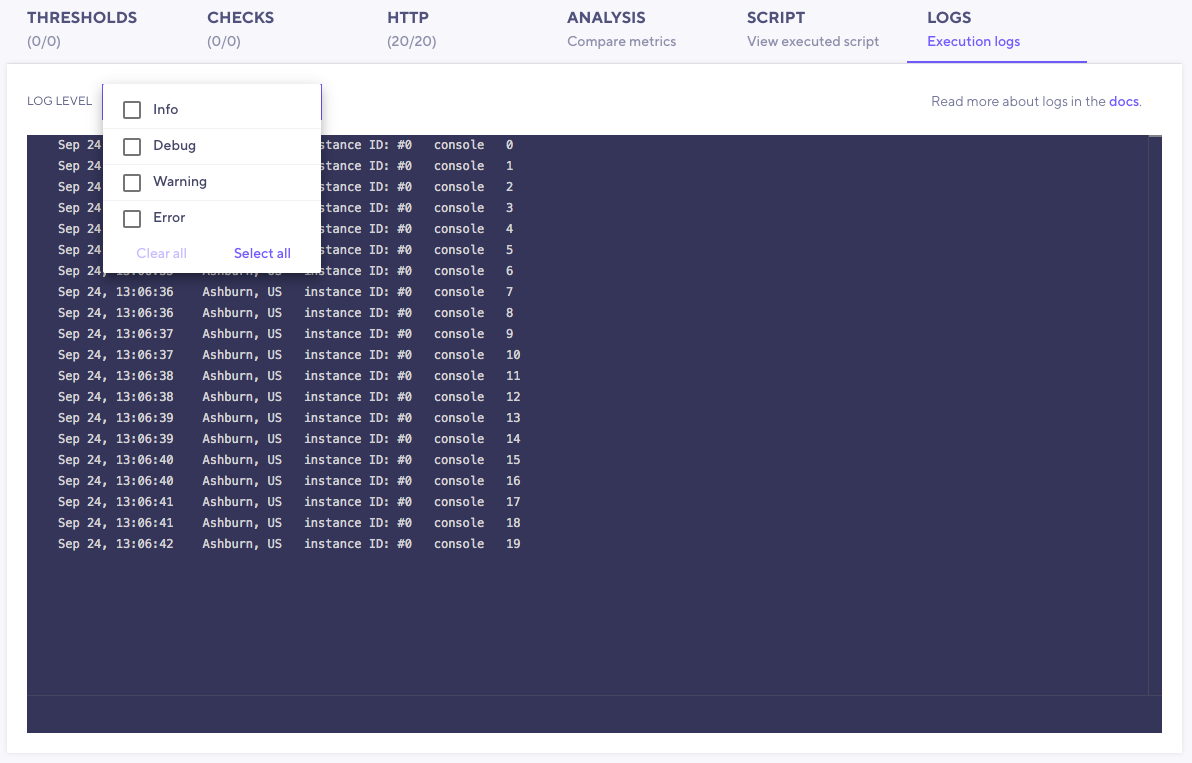
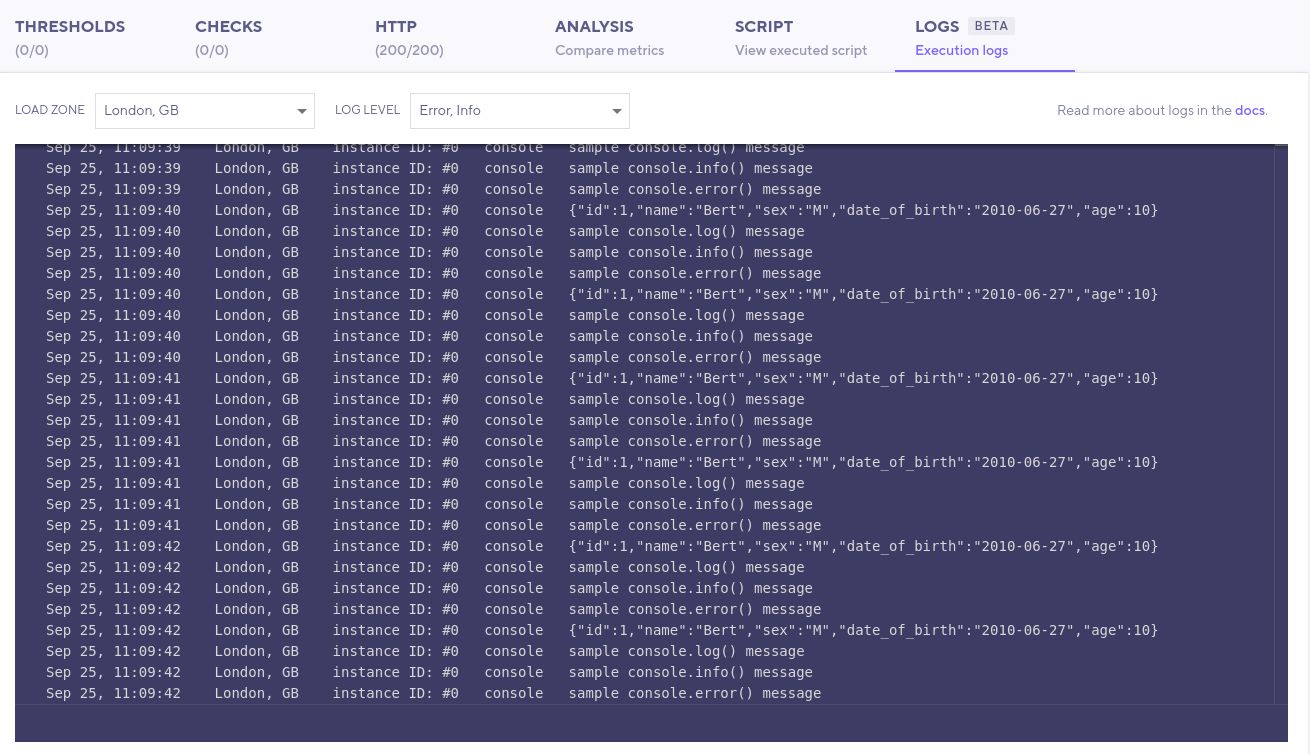
Changes to the cloud logs article

diff --git a/src/data/markdown/docs/03 cloud/02 Analyzing Results/07 Logs Tab.md b/src/data/markdown/docs/03 cloud/02 Analyzing Results/07 Logs Tab.md
@@ -9,7 +9,7 @@ excerpt: 'The Logs tab allows you to view console logs'
 >
 > This feature is new as of version `0.28.0` and is currently in Beta.
 
-Developers often log messages when debugging their load tests to ensure the test works correctly or view variable values.
+When developing a load test, it's often useful to print messages for debugging purposes. 
 
 The k6 API supports the following console logging methods:
 
@@ -22,7 +22,7 @@ The k6 API supports the following console logging methods:
 
 Logs can aid you in troubleshooting your test execution. But they should NOT replace the functionality of other k6 APIs.
 
-For example, it is often an **antipattern** to use `logs` to:
+For example, it is often an **anti-pattern** to use `logs` to:
 -  Track the status of a condition. Instead, use [Checks](/javascript-api/k6/check-val-sets-tags) to assert these conditions.
 -  Track a variable value during the test execution. Instead, use the [Trend](/javascript-api/k6-metrics/trend) metric.
 
@@ -38,54 +38,45 @@ The Logs Tab allows you to view and filter log messages in the Cloud Results pag
 
 ![Cloud Logs Tab](/images/11-Cloud-Logs/cloud-logs-output-messages.png)
 
-The Logs panel shows the log message at the right side, and additionaly,  some extra debug information. This information refers to the machine executing the script:
-
-- Log date
-- Load zone: the geographic zone where the load generator server is running
-- Instance ID: ID of the load generator server taking part in the test
+In addition to the log messages, the log panel shows context information such as:
+- Log date in the local time zone
+- Load zone: the geographic zone where the load generator server is located
+- Instance ID: numerical ID of the load generator server taking part in the test
 
 See [how the k6 Cloud injects environment variables](/cloud/creating-and-running-a-test/cloud-tests-from-the-cli#environment-variables) for further information about the load zone and instance ID.
 
-### Filter by log level
+### Filter by log level and load zone
 
-Each Javascript log statement has assigned a severity level:
+Each Javascript log statement has a severity level:
 - **Info**:  `console.log` and `console.info`.
 - **Debug**: `console.debug`.
 - **Warning**: `console.warning`.
 - **Error**: `console.error`.
 
-If you use different logging levels in your tests, you can filter out messages by the severity level with the Log Level Filter menu.
+You can filter messages by severity level and load zone. The load zone filter is only present when your test has been executed in two or more load zones.
 
 ![Cloud Logs Tab with Filter](/images/11-Cloud-Logs/cloud-logs-output-messages-with-filter.png)
 
 ## Logging limitations
 
-Logs are intended to help you finding anomalies or issues during the execution of your test. But you should NOT rely on logging to interpret or analyze the performance of your systems.
+Logs are intended to help you in finding script issues and debugging execution anomalies. You should NOT rely on logging to interpret or analyze the performance of your system.
 
-For this reason, Cloud logs has - on purpose - some limitations:
-- The k6 Cloud deletes logs 3 days after the test execution.
-- The k6 Cloud does not store more than 10 messages per second. But it will show the number of discarded messages.
+For this reason, the cloud logs have some limitations:
+- The logs are deleted 3 days after the test execution. 
+- The number of log lines is limited to 10 messages per second per server. If this limit is crossed, a warning messages appears showing the number of discarded log lines.
 
 ![Cloud Logs Tab Drop Message](/images/11-Cloud-Logs/cloud-logs-output-drop-messages.png)
 
 ## Cloud logs on the CLI
 
-k6 aims to have a seamless experience when running local or cloud tests.
+k6 aims to have a consistent experience when running local and cloud tests.
 
 When running cloud tests using the CLI (`k6 cloud`), k6 will print cloud logs on the standard output as it does with your local tests.
 
-```shell
-$k6 cloud script.js
 
-INFO[0141] 0                instance_id=0 lz="amazon:us:ashburn" source=console test_run_id=816598
-INFO[0141] 1                instance_id=0 lz="amazon:us:ashburn" source=console test_run_id=816598
-INFO[0142] 2                instance_id=0 lz="amazon:us:ashburn" source=console test_run_id=816598
-INFO[0142] 3                instance_id=0 lz="amazon:us:ashburn" source=console test_run_id=816598
-INFO[0143] 4                instance_id=0 lz="amazon:us:ashburn" source=console test_run_id=816598
-```
+![Cloud Logs Tab in CLI](/images/11-Cloud-Logs/cloud-logs-cli-output.png)
 
-
-
+If you don't want the cloud logs to be printed on the terminal, add the `--show-logs=false` argument.
 
 
 Next, [Test Comparison](/cloud/analyzing-results/test-comparison)
